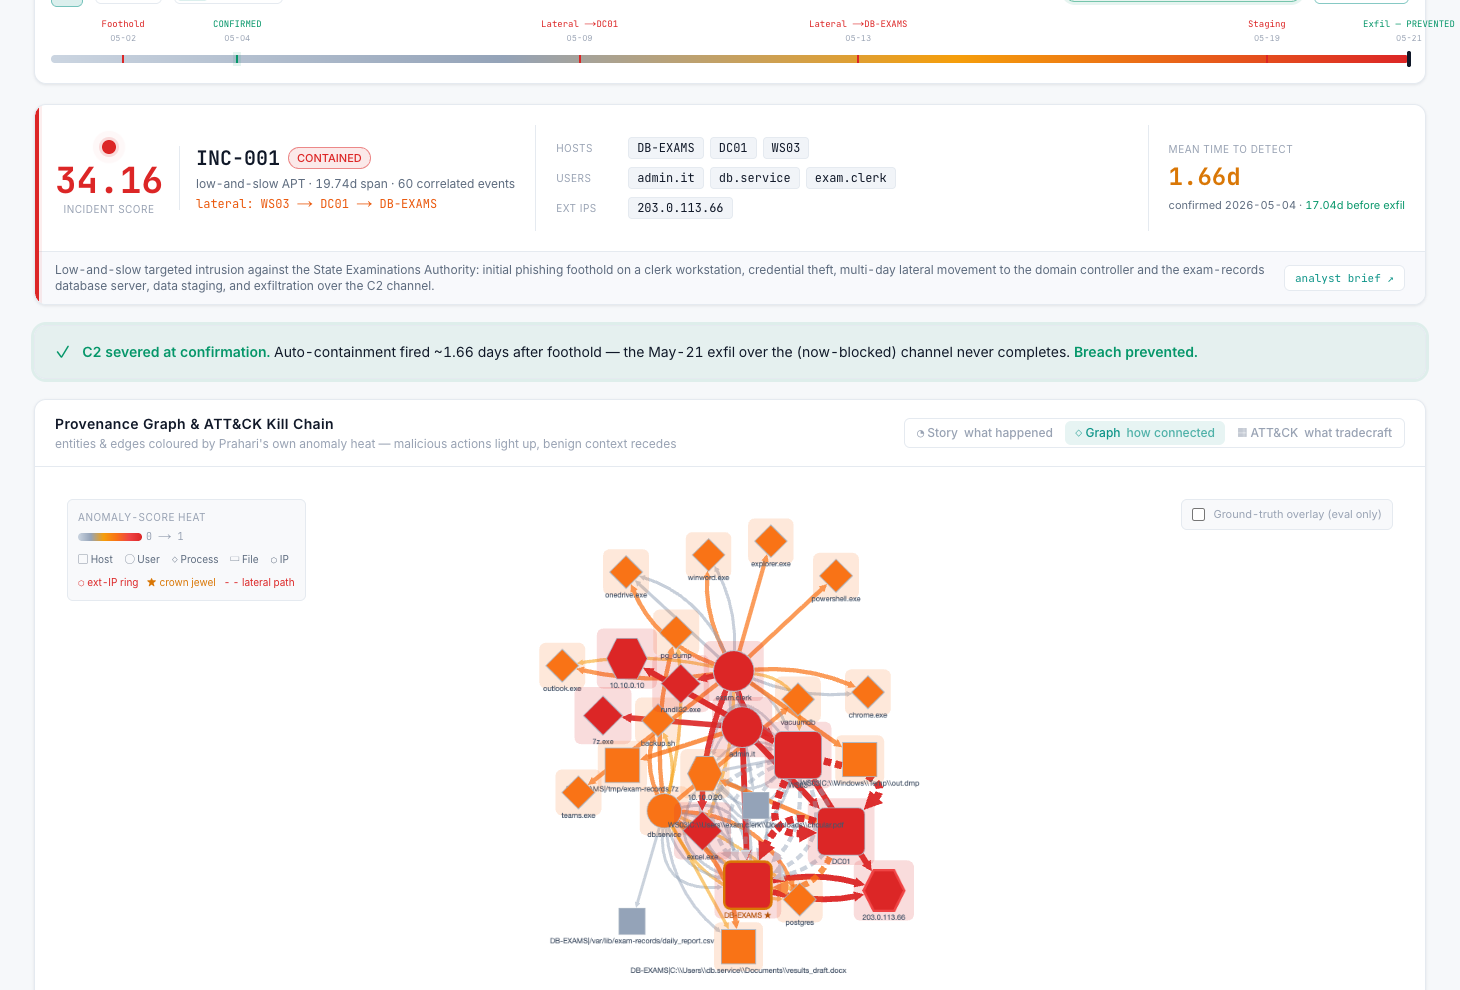
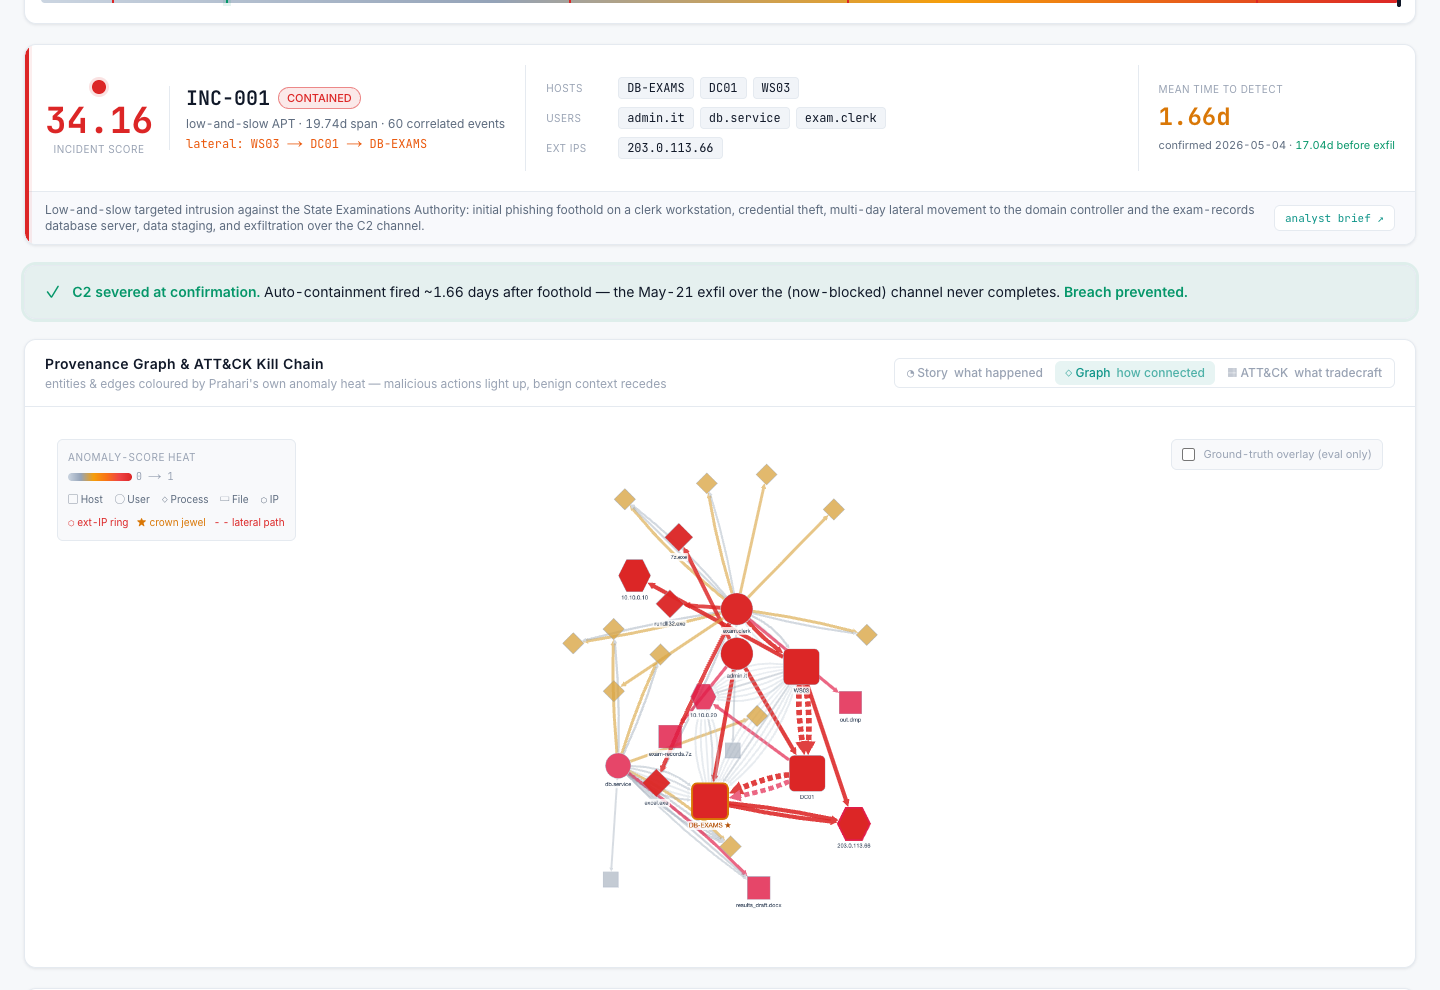
console: graph readability (focus+context) + fix StatTile count-up freeze
The Graph lens read as a saturated hairball. Rework the honest-viz encoding
so the attack leads and benign context recedes — all still driven by the
system's own anomaly_score, never ground truth:

- Kill the ambient per-node underlay "glow" that smeared hot nodes into
  muddy pink blobs; anomaly now drives background-opacity + (superlinear)
  size, so benign context goes translucent/small and the attack stays solid.
- Retune the heat ramp: only >=0.72 reads red; the moderate cold-start band
  is a muted amber, not an alarming orange.
- Dashing now signifies the FLAGGED lateral-movement path, not the edge
  type: the 7 low-anomaly WS03->DB-EXAMS links were dashing into a web
  across the middle — they now recede as faint context, leaving the real
  WS03->DC01->DB-EXAMS hops as a clean bold marching-ants spine.
- File labels show the basename (out.dmp) not the full host-prefixed path;
  legible white label pills; structural + hot nodes labelled by default,
  benign leaves reveal their label on hover.
- Layout: label-aware fcose with more air (repulsion/separation/gravity),
  tighter multi-edge control points so parallels stack instead of fanning.

StatTile: the count-up effect depended on the match array (a fresh object
every render), so the first frame's setState retriggered the effect and its
cleanup cancelled the rAF — freezing the tile on an intermediate value
(e.g. "0.20" instead of "0.9988"). Depend on the raw string instead, and
[…]

diff --git a/console/components/incident/GraphView.tsx b/console/components/incident/GraphView.tsx
@@ -12,16 +12,23 @@ if (!registered) {
   registered = true;
 }
 
-// --- honest-viz heat ramp: driven by the SYSTEM's fused_score, not ground truth.
+// --- honest-viz heat ramp: driven by the SYSTEM's anomaly_score, not ground truth.
 // Daylight semantics: benign world = quiet grays that recede into the paper;
 // threat = the amber→red ramp only. (Teal is reserved for the system's voice.)
+// Only genuinely high anomaly (>=0.72) reads as red; the moderate cold-start
+// band stays a muted amber so the eye isn't alarmed by benign context.
 function heat(score: number): string {
-  if (score >= 0.9) return "#dc2626"; // critical
-  if (score >= 0.75) return "#ef4444"; // red
-  if (score >= 0.6) return "#f97316"; // orange
-  if (score >= 0.45) return "#f59e0b"; // amber
-  if (score >= 0.3) return "#94a3b8"; // cool slate (mild)
-  return "#cbd5e1"; // pale slate — benign context recedes
+  if (score >= 0.85) return "#dc2626"; // critical
+  if (score >= 0.72) return "#e11d48"; // red — malicious action
+  if (score >= 0.55) return "#d9a441"; // muted amber — elevated context
+  if (score >= 0.4) return "#9aa7b6"; // cool slate (mild)
+  return "#c3cdd8"; // pale slate — benign context recedes
+}
+
+// focus+context: anomaly drives physical weight, not just hue. Benign context
+// goes translucent and small so it sinks into the paper; the attack stays solid.
+function opacityFor(score: number): number {
+  return Math.round((0.32 + Math.min(1, score) * 0.68) * 100) / 100;
 }
 
 const SHAPE: Record<string, string> = {
@@ -43,6 +50,14 @@ function seedPos(id: string, i: number): { x: number; y: number } {
 
 function isExternalIP(id: string, type: string): boolean {
   return type === "IP" && !id.startsWith("10.");
+}
+
+// File ids carry the whole host-prefixed path (WS03|C:\…\out.dmp) which blows
+// out the layout. Show just the basename; the drawer keeps the full identity.
+function displayLabel(id: string, type: string): string {
+  if (type !== "File") return id;
+  const base = id.split(/[\\/|]/).pop();
+  return base && base.length ? base : id;
 }
 
 export function GraphView({ graph, t }: { graph: GraphData; t: number }) {
@@ -76,19 +91,25 @@ export function GraphView({ graph, t }: { graph: GraphData; t: number }) {
       const mf = maxHeat[n.id] ?? 0;
       const ext = isExternalIP(n.id, n.type);
       const crown = n.id === "DB-EXAMS";
-      const hostBase = n.type === "Host" ? 8 : 0; // hosts are the backbone
+      // structural skeleton (hosts/users/ips) + genuinely-hot nodes carry a
+      // label always; benign leaves stay quiet until hovered, to cut clutter.
+      const structural = n.type === "Host" || n.type === "User" || n.type === "IP";
+      const labeled = structural || mf >= 0.72;
+      const hostBase = n.type === "Host" ? 10 : structural ? 4 : 0;
+      const base = displayLabel(n.id, n.type);
       const classes: string[] = [];
       if (ext) classes.push("external");
       if (crown) classes.push("crown");
+      if (!labeled) classes.push("quiet");
       return {
         data: {
           id: n.id,
-          label: crown ? `${n.id} ★` : n.id,
+          label: crown ? `${base} ★` : base,
           shape: SHAPE[n.type] ?? "ellipse",
           color: heat(mf),
-          size: 20 + hostBase + mf * 30,
-          glow: mf >= 0.6 ? 0.16 : 0,
-          glowpad: Math.round(mf * 12),
+          bgop: opacityFor(mf),
+          // superlinear so the genuinely-hot attack nodes visibly dominate
+          size: 16 + hostBase + Math.pow(mf, 1.4) * 34,
           revealMs: nodeReveal[n.id] ?? 0,
         },
         position: seedPos(n.id, i),
@@ -98,20 +119,24 @@ export function GraphView({ graph, t }: { graph: GraphData; t: number }) {
 
     const edgeEls = graph.edges.map((e, i) => {
       const f = HEAT(e);
-      const reached = e.type === "REACHED";
+      // dashing signifies the FLAGGED lateral-movement path, not the edge type.
+      // low-anomaly REACHED links (benign direct connections) recede as context
+      // instead of dashing into a web across the middle.
+      const pathHop = e.type === "REACHED" && f >= 0.7;
       return {
         data: {
           id: `e${i}`,
           source: e.source,
           target: e.target,
           color: heat(f),
-          // lateral-movement (REACHED) edges get a thicker floor so the path reads
-          width: (reached ? 3 : 1.2) + f * 6,
-          opacity: 0.18 + f * 0.78,
+          // the flagged lateral hops get a thick floor so the path reads
+          width: (pathHop ? 3.5 : 0.9) + f * 6,
+          // benign context edges sink toward the paper; hot edges stay assertive
+          opacity: Math.round((0.08 + f * 0.8) * 100) / 100,
           edge: e,
           tsMs: parseTs(e.ts),
         },
-        classes: [reached ? "reached" : "", e.malicious ? "mal" : ""]
+        classes: [pathHop ? "reached" : "", e.malicious ? "mal" : ""]
           .filter(Boolean)
           .join(" "),
       };
@@ -127,28 +152,43 @@ export function GraphView({ graph, t }: { graph: GraphData; t: number }) {
           style: {
             shape: "data(shape)",
             "background-color": "data(color)",
+            "background-opacity": "data(bgop)",
             width: "data(size)",
             height: "data(size)",
             label: "data(label)",
             color: "#475569",
-            "font-size": 9,
+            "font-size": 9.5,
             "font-family": "var(--font-jetbrains), monospace",
             "text-valign": "bottom",
-            "text-margin-y": 4,
+            "text-margin-y": 5,
+            "text-max-width": "120px",
+            "text-wrap": "ellipsis",
+            // paper pill keeps labels legible over any fill and above overlaps
+            "text-background-color": "#ffffff",
+            "text-background-opacity": 0.82,
+            "text-background-shape": "roundrectangle",
+            "text-background-padding": 2,
             "border-width": 1,
-            "border-color": "#aab6c4",
-            "underlay-color": "data(color)",
-            "underlay-opacity": "data(glow)",
-            "underlay-padding": "data(glowpad)",
+            "border-color": "#94a3b8",
+            "border-opacity": 0.55,
           },
         },
+        // benign leaves: hide the label until the node is hovered/relevant
+        { selector: "node.quiet", style: { "text-opacity": 0, color: "#64748b" } },
+        { selector: "node.reveal", style: { "text-opacity": 1 } },
         {
           selector: "node.external",
-          style: { "border-width": 3, "border-color": "#ef4444" },
+          style: { "border-width": 3, "border-color": "#e11d48", "border-opacity": 1 },
         },
         {
           selector: "node.crown",
-          style: { "border-width": 3, "border-color": "#d97706", color: "#b45309" },
+          style: {
+            "border-width": 3,
+            "border-color": "#d97706",
+            "border-opacity": 1,
+            color: "#b45309",
+            "font-size": 11,
+          },
         },
         {
           selector: "edge",
@@ -157,6 +197,8 @@ export function GraphView({ graph, t }: { graph: GraphData; t: number }) {
             "line-color": "data(color)",
             "line-opacity": "data(opacity)",
             "curve-style": "bezier",
+            // tighten parallel multi-edges so they stack instead of fanning
+            "control-point-step-size": 14,
             "target-arrow-shape": "triangle",
             "target-arrow-color": "data(color)",
             "arrow-scale": 0.7,
@@ -191,25 +233,32 @@ export function GraphView({ graph, t }: { graph: GraphData; t: number }) {
         randomize: false,
         animate: false,
         quality: "proof",
-        nodeRepulsion: 7000,
-        idealEdgeLength: 95,
-        nodeSeparation: 90,
-        padding: 30,
+        // more air + label-aware sizing so nodes and their pills stop colliding
+        nodeDimensionsIncludeLabels: true,
+        nodeRepulsion: 14000,
+        idealEdgeLength: 135,
+        nodeSeparation: 150,
+        gravity: 0.32,
+        gravityRange: 3.2,
+        packComponents: true,
+        padding: 36,
       } as unknown as cytoscape.LayoutOptions,
     });
     cyRef.current = cy;
 
-    // hover: highlight neighbourhood + tooltip
+    // hover: spotlight the neighbourhood (fade the rest, surface its labels) + tooltip
     cy.on("mouseover", "node", (evt) => {
       const n = evt.target;
       const keep = n.closedNeighborhood();
       cy.elements().not(keep).addClass("faded");
+      keep.nodes().addClass("reveal");
       const rp = n.renderedPosition();
       const mf = (maxHeat[n.id()] ?? 0).toFixed(3);
       setTip({ x: rp.x, y: rp.y, text: `${n.id()} · ${n.data("shape")} · max heat ${mf}` });
     });
     cy.on("mouseout", "node", () => {
       cy.elements().removeClass("faded");
+      cy.nodes().removeClass("reveal");
       setTip(null);
     });
     cy.on("tap", "edge", (evt) => setSel(evt.target.data("edge") as GraphEdge));

diff --git a/console/components/ui/StatTile.tsx b/console/components/ui/StatTile.tsx
@@ -1,6 +1,6 @@
 "use client";
 
-import { useEffect, useRef, useState, type ReactNode } from "react";
+import { useEffect, useState, type ReactNode } from "react";
 
 const TONES = {
   accent: "text-accent",
@@ -12,27 +12,28 @@ const TONES = {
 
 // Count a numeric metric up from 0 on mount, preserving any prefix/suffix
 // (e.g. "<1s", "1.66d", "92.3%", "10-entry chain"). Non-numeric values (✓)
-// render as-is. Respects reduced-motion.
+// render as-is. Respects reduced-motion. `shown` overrides the source value
+// only while animating; it always resolves back to the exact source.
 function AnimatedValue({ value }: { value: ReactNode }) {
   const raw = typeof value === "string" ? value : null;
-  const m = raw ? raw.match(/^(\D*)(\d[\d,]*(?:\.\d+)?)(.*)$/) : null;
-  const reduce =
-    typeof window !== "undefined" &&
-    !!window.matchMedia?.("(prefers-reduced-motion: reduce)").matches;
-  const [shown, setShown] = useState<string | null>(() =>
-    m && !reduce ? `${m[1]}0${m[3]}` : null,
-  );
-  const done = useRef(false);
+  const [shown, setShown] = useState<string | null>(null);
 
+  // Depend on the raw STRING (a stable primitive), never on the match array —
+  // matching every render yields a fresh object that would retrigger + cancel
+  // this effect on the first frame, freezing the tile mid-count.
   useEffect(() => {
-    if (!m || done.current || reduce) return;
-    done.current = true;
+    const reduce = !!window.matchMedia?.("(prefers-reduced-motion: reduce)").matches;
+    const m = raw?.match(/^(\D*)(\d[\d,]*(?:\.\d+)?)(.*)$/);
+    if (!m || reduce) return;
     const [, prefix, numStr, suffix] = m;
     const target = parseFloat(numStr.replace(/,/g, ""));
     const decimals = numStr.includes(".") ? numStr.split(".")[1].length : 0;
     const dur = 620;
     const start = performance.now();
     let raf = 0;
+    // no synchronous setState here: the first rAF frame sets the count to ~0.
+    // if frames are throttled (headless/backgrounded), `shown` stays null and
+    // the tile just renders the exact source value — never a frozen midpoint.
     const step = (now: number) => {
       const p = Math.min(1, (now - start) / dur);
       const eased = 1 - Math.pow(1 - p, 3);
@@ -41,8 +42,14 @@ function AnimatedValue({ value }: { value: ReactNode }) {
       else setShown(null); // hand back to the exact source value
     };
     raf = requestAnimationFrame(step);
-    return () => cancelAnimationFrame(raf);
-  }, [m, reduce]);
+    // belt-and-suspenders: settle on the TRUE value even if rAF never fires
+    // (backgrounded tab / headless capture throttles frames).
+    const settle = window.setTimeout(() => setShown(null), dur + 160);
+    return () => {
+      cancelAnimationFrame(raf);
+      clearTimeout(settle);
+    };
+  }, [raw]);
 
   return <>{shown ?? value}</>;
 }